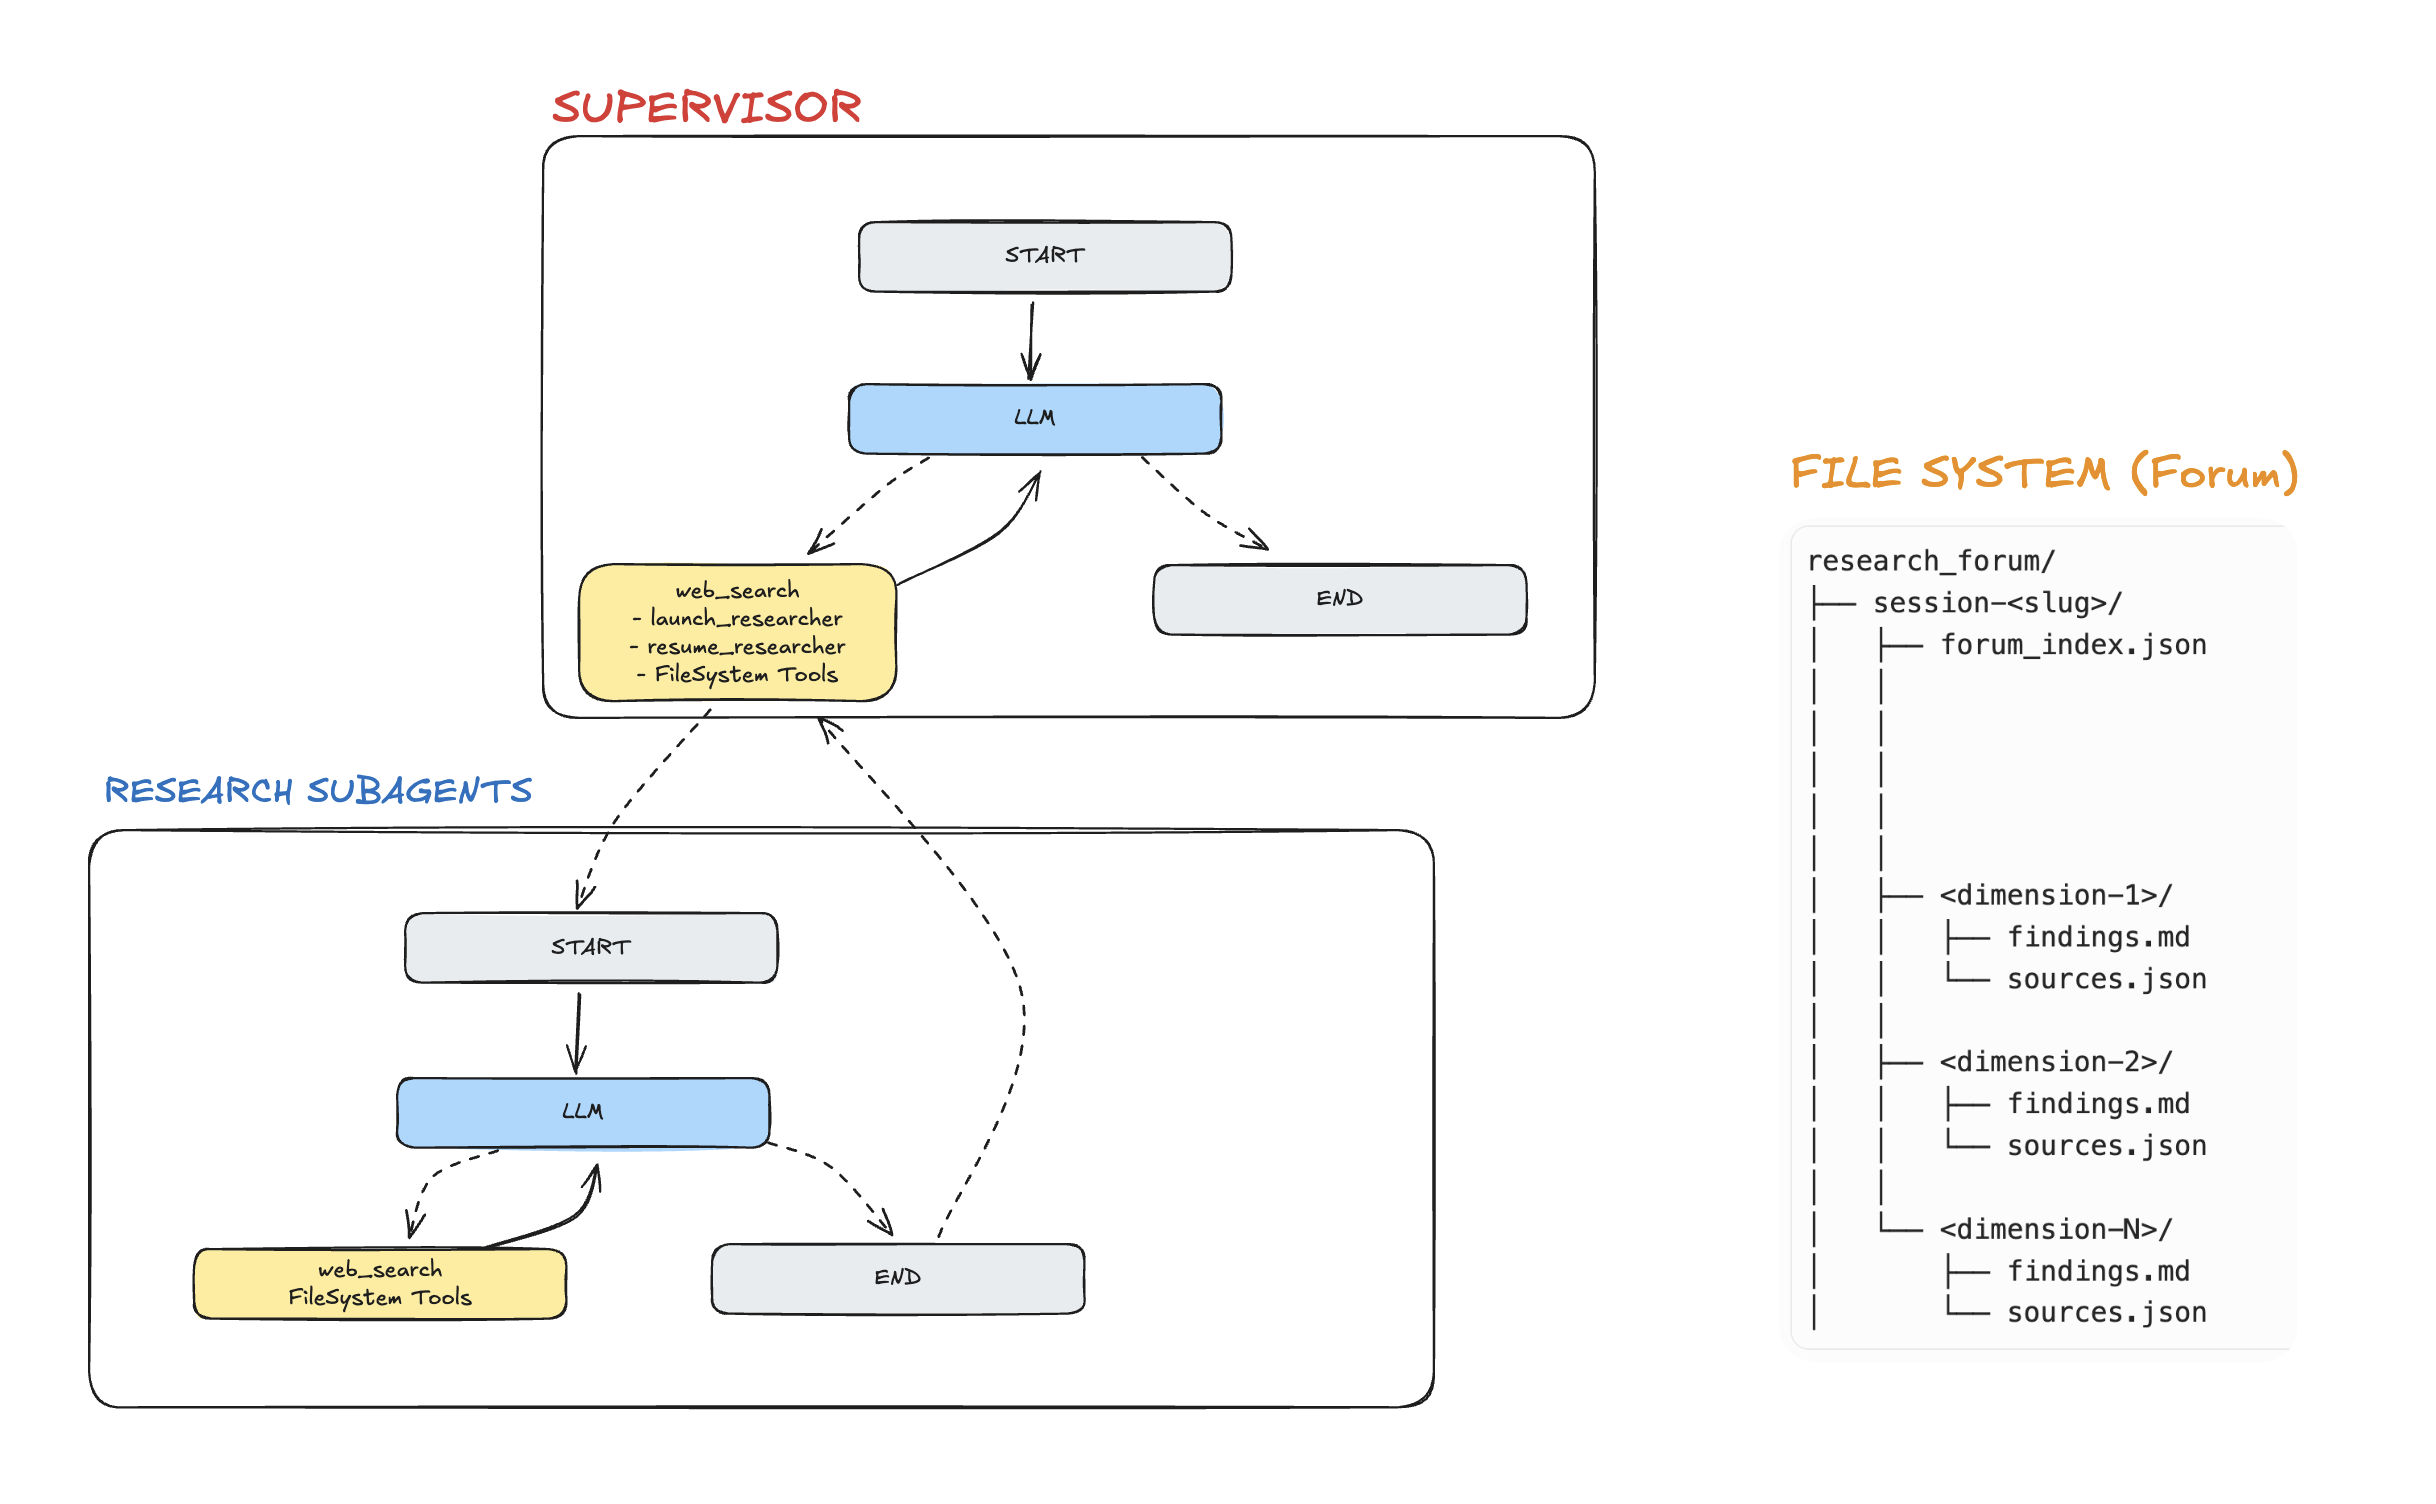
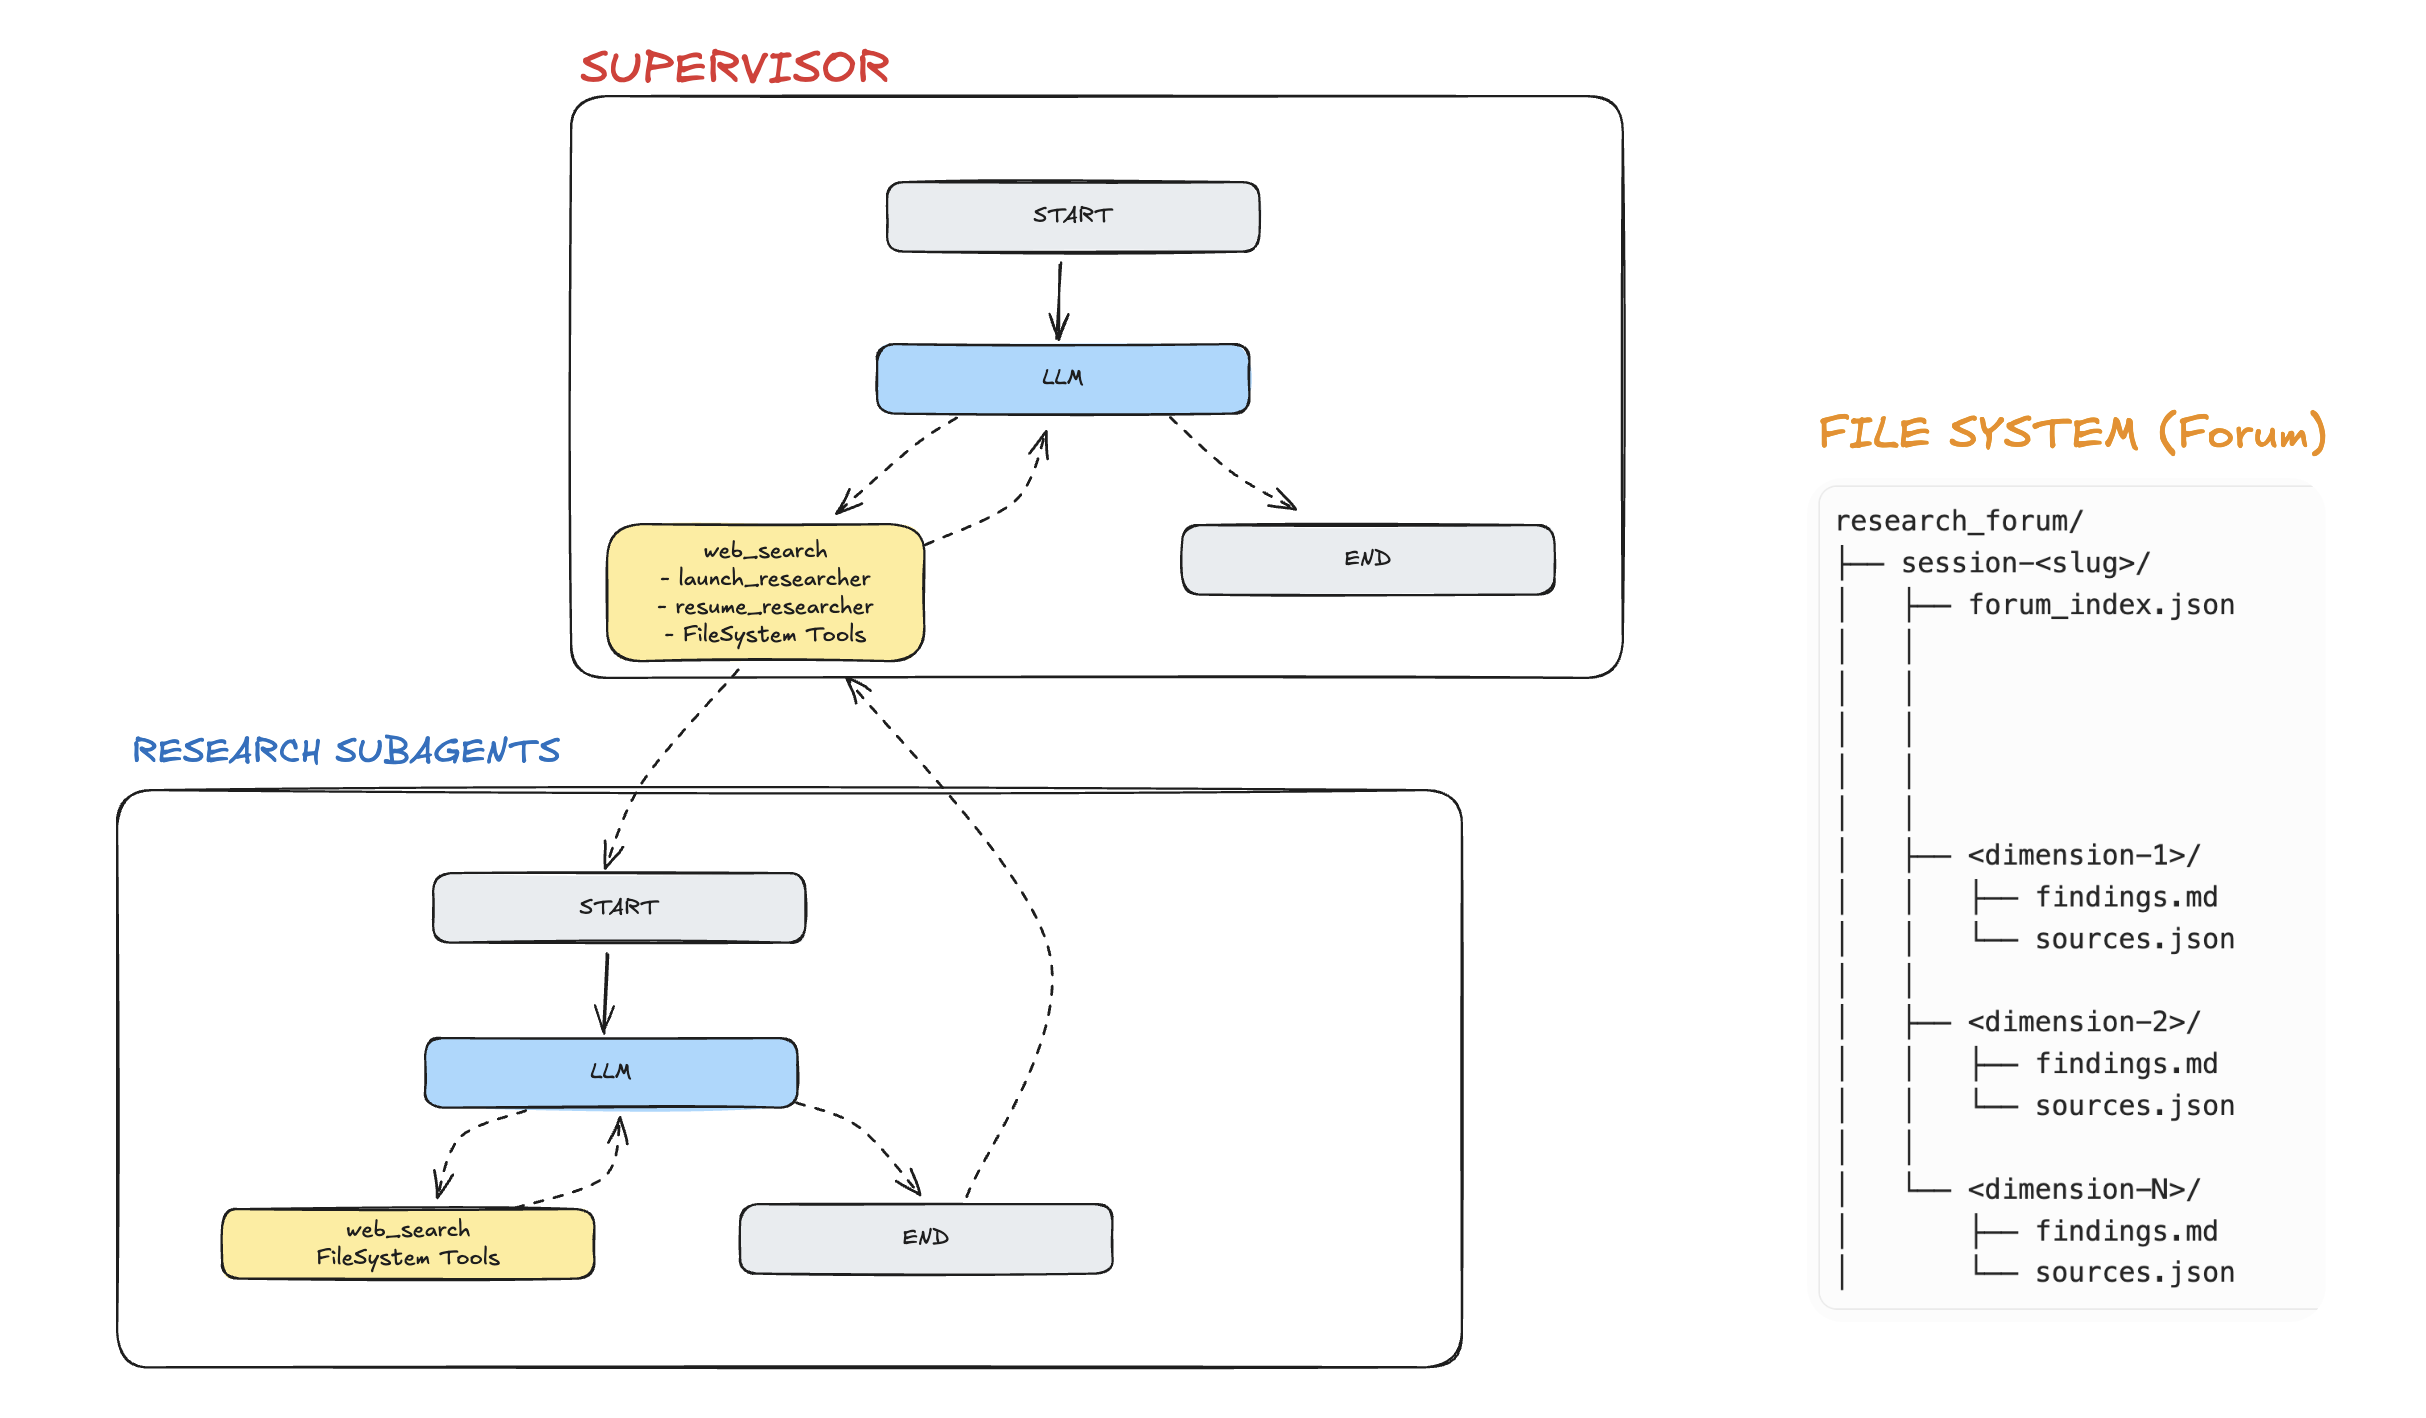
Update design diagram in README

diff --git a/README.md b/README.md
@@ -57,10 +57,9 @@ rm -rf research_forum/session-*
 
 ## Architecture
 
-<img src="design.png" alt="Deep Research Forum Design" style="border-radius: 12px;" />
+![Architecture Diagram](design.png)
 
 ### Core Pattern
-
 Supervisor (Claude Sonnet 4.5) orchestrates isolated researchers (GPT-5 mini), each exploring a distinct **perspective lens**. Researchers write `findings.md` + `sources.json` to sandboxed folders under `research_forum/session-<slug>/<dimension>/`.
 
 **Typical run**: 10-15 minutes, ~$0.60 (3-5 dimensions × 1-2 rounds).
